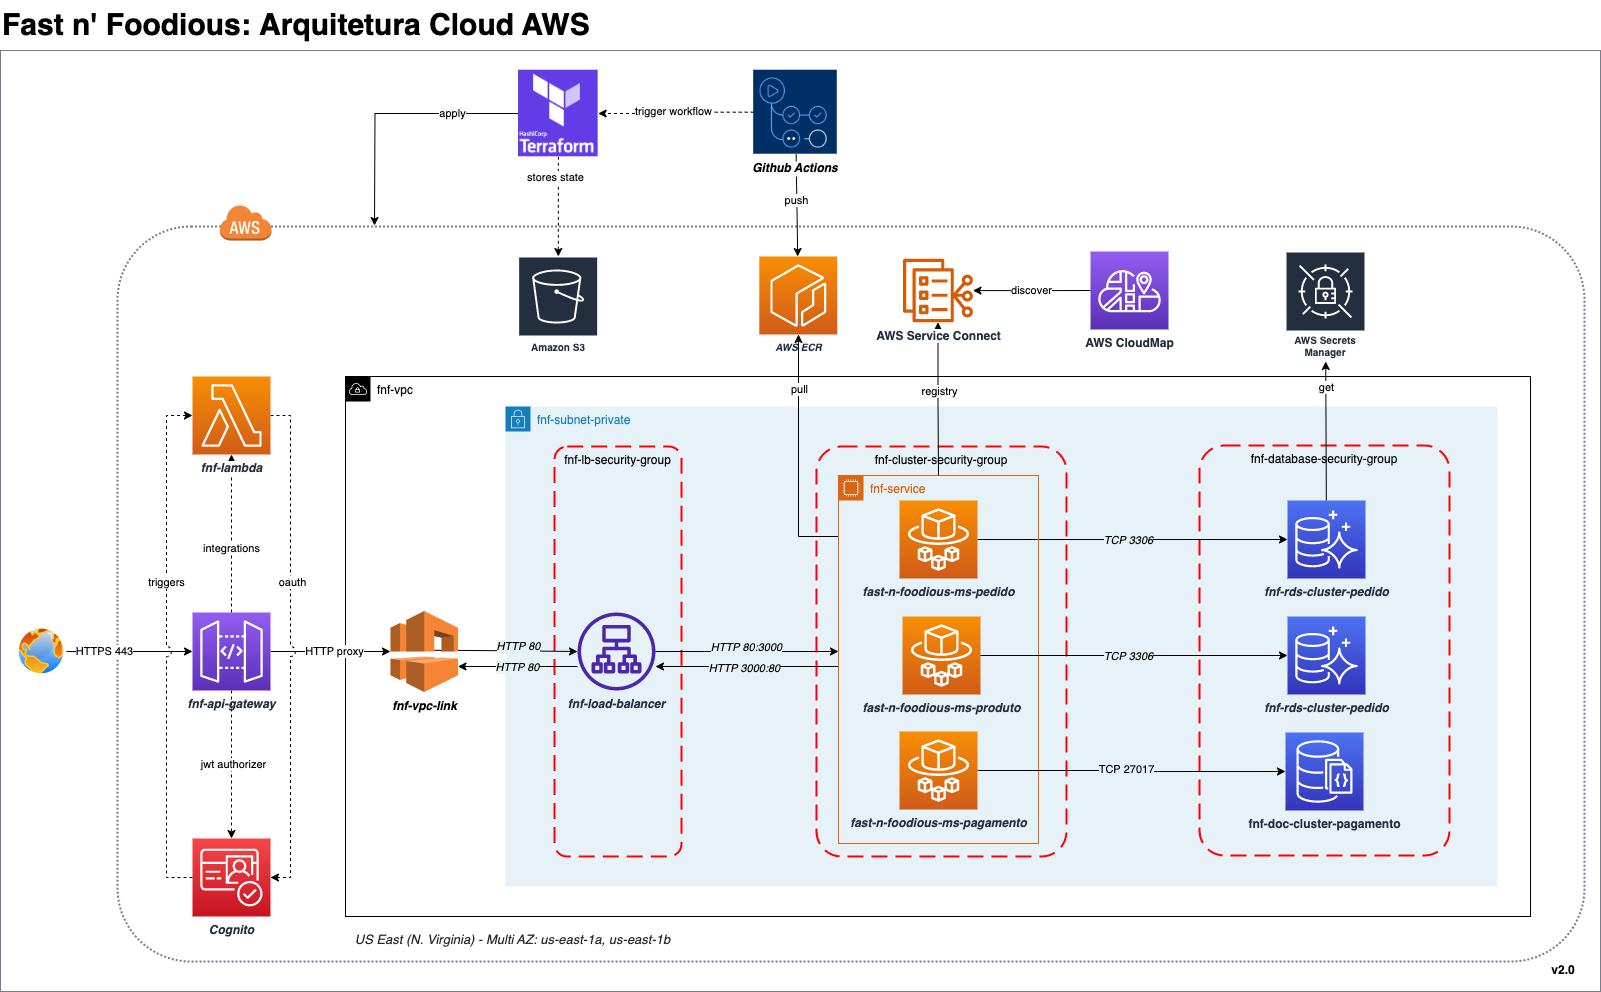
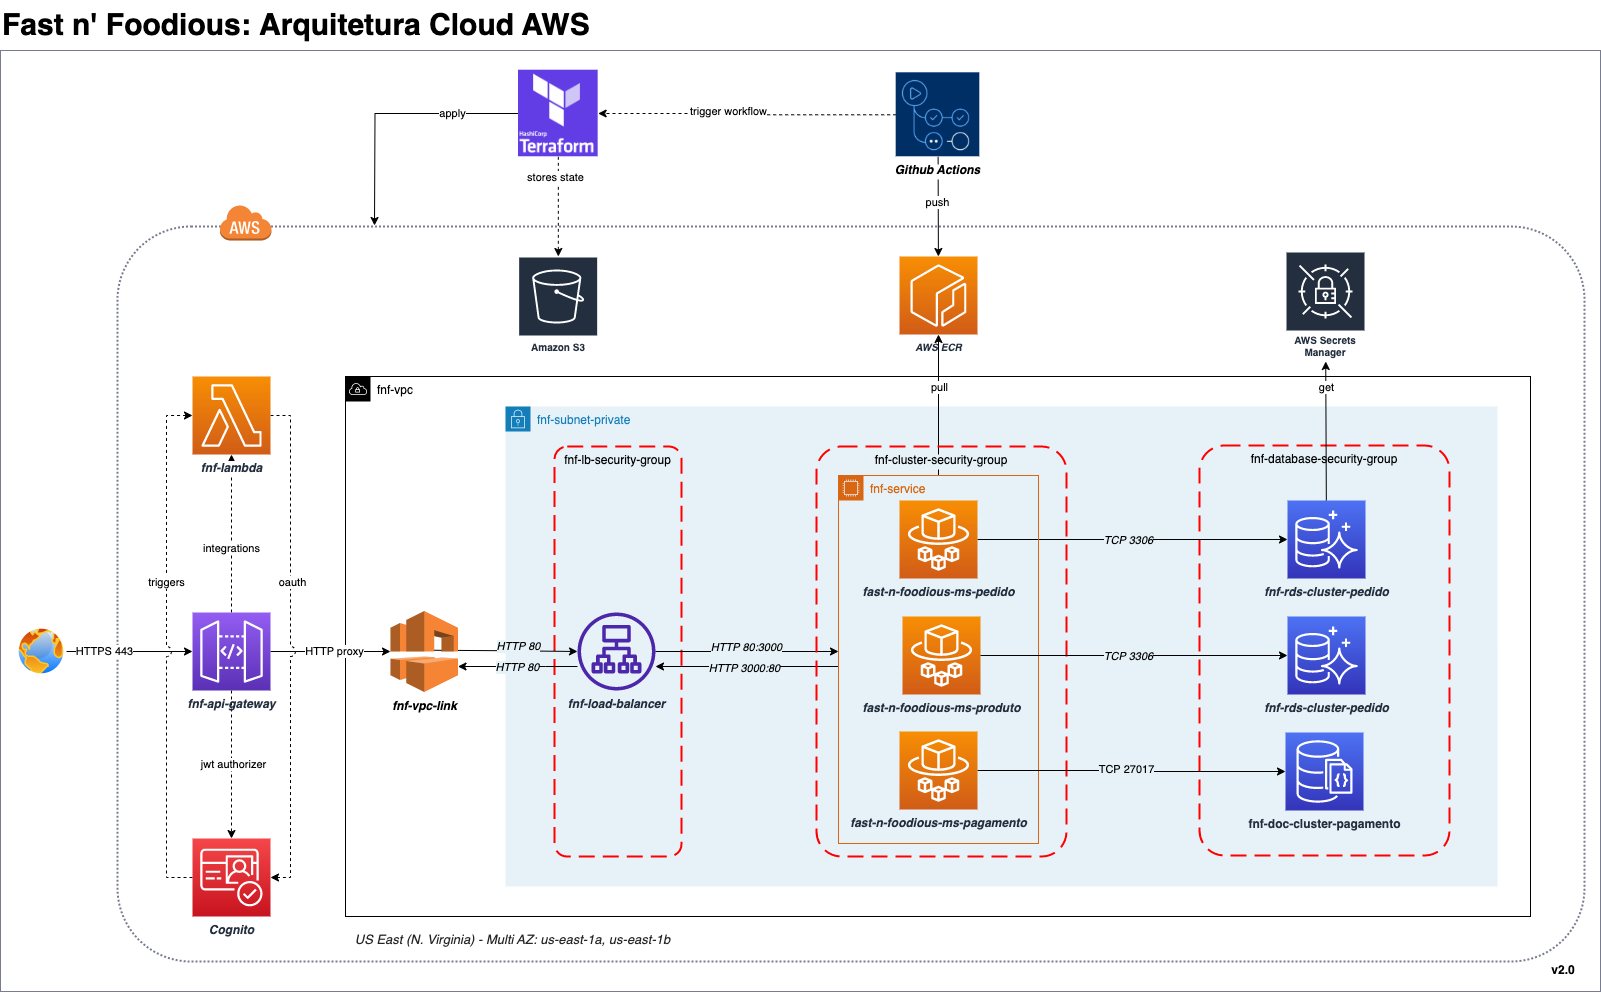
- atualização de docs - configuração de roles/policies - remoçnao de service connect

Changed region(s): [[0.4685, 0.25, 0.7495, 0.4062], [0.406, 0.0625, 0.6246, 0.1875]]

diff --git a/README.md b/README.md
@@ -15,7 +15,7 @@ Repositório de criação de infraestrutura cloud AWS, responsável por criar os
 fast-n-foodious-iac-compute
 ├── fnf-api-gateway.tf                          # Definição de recurso API Gateway, com registro de rotas e controle de acesso de recursos
 ├── fnf-cognito.tf                              # Definição de recurso Cognito, para registro de usuários destinados a controle de acesso, autenticação e autorização
-├── fnf-ecs.tf                                  # Definição de recurso cluster ECS gerenciado com Fargate e reurcos de registry e discovery
+├── fnf-ecs.tf                                  # Definição de recurso cluster ECS gerenciado com Fargate
 ├── fnf-iam.tf                                  # Definição de recursos Roles, polices e permissões
 ├── fnf-lambda-authorizer.js                    # Lambda destinado a autorização de acesso aos recursos da API
 ├── fnf-lambda-axios-layer.zip                  # Layer axios, utilizada como dependância lambda
